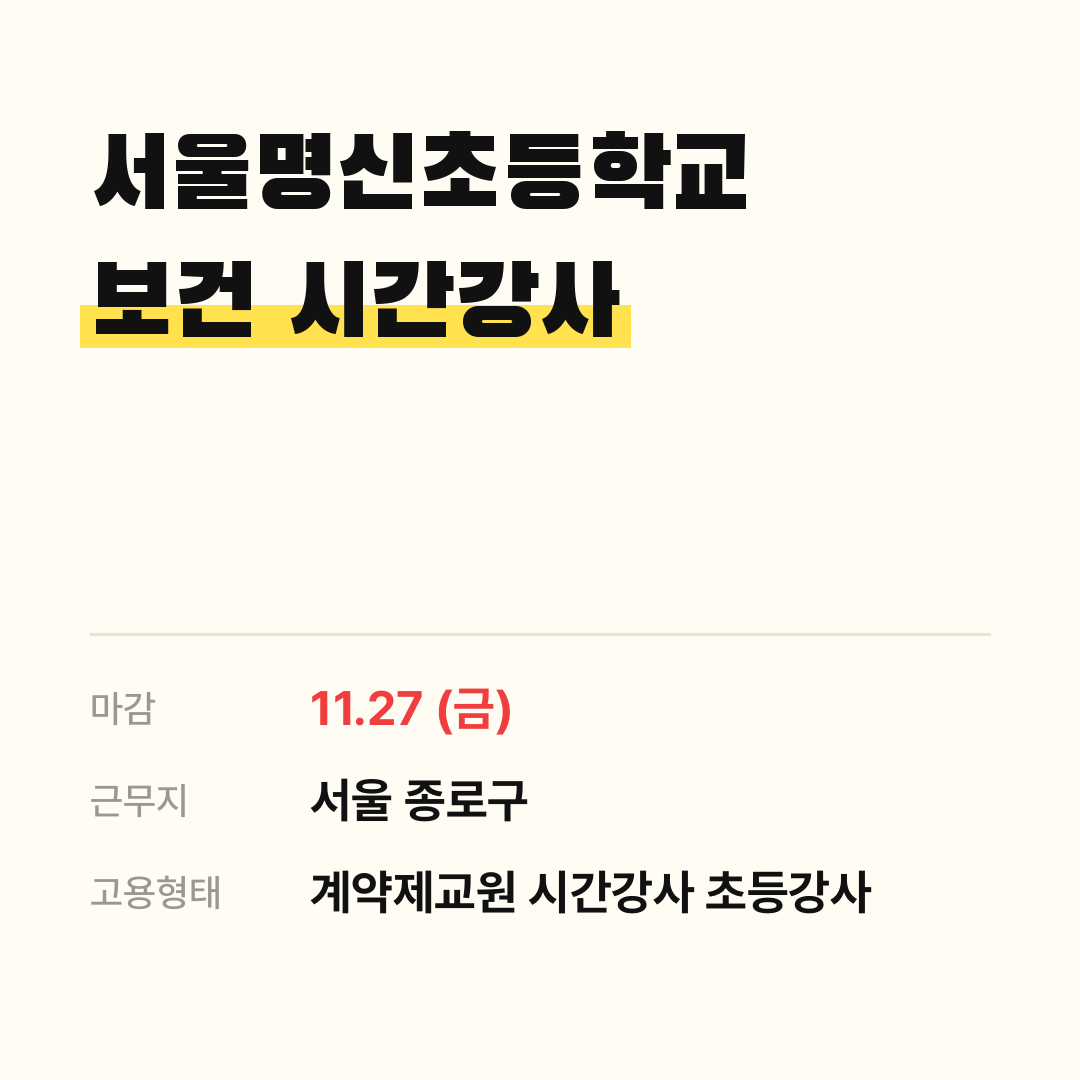
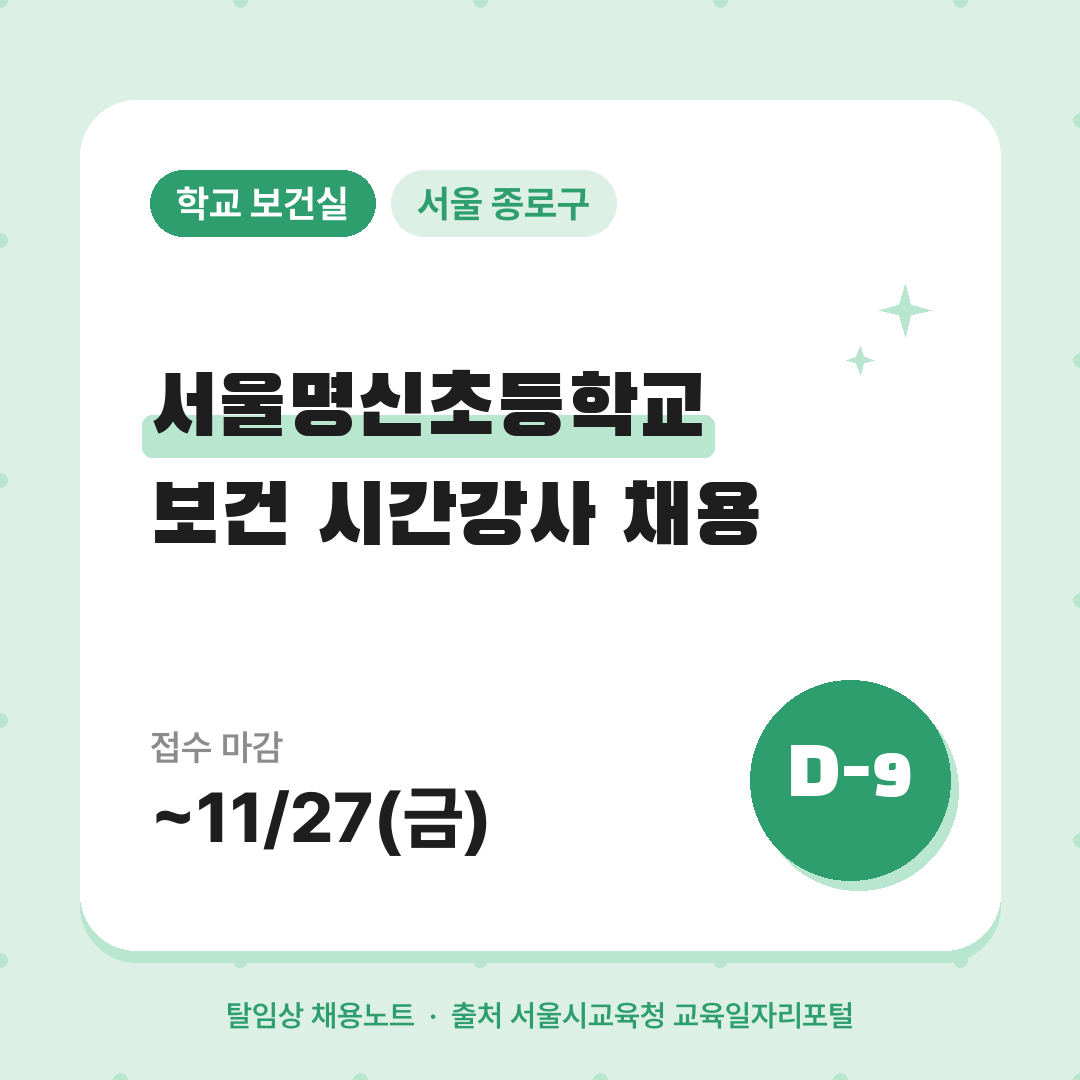
블로그 썸네일을 인스타 표지 디자인으로 통일, 11/17·11/18 인스타 게시물 생성, 하루 3~5개
Claude-Session: https://claude.ai/code/session_015ozFBvjxcWAyqLYfTbBGCZ

diff --git a/docs/2026-11-17/index.html b/docs/2026-11-17/index.html
@@ -193,82 +193,129 @@ a{color:var(--accent)}ul.days{padding-left:1.2em}
 <div class="row" style="margin-top:10px;align-items:flex-start"><a href="thumb-05.png" download><img src="thumb-05.png" alt="썸네일 5" style="width:160px;border-radius:8px;border:1px solid var(--line)"></a>
 <span class="muted">썸네일: 이미지를 눌러 저장 후 글 맨 위에 넣으세요</span></div></div>
 
-<div class="box"><div class="row"><b>📷 인스타 카드뉴스</b><span class="muted">이미지를 눌러 저장</span></div>
-<div class="cards"><a href="card-00.jpg" download><img src="card-00.jpg" alt="카드 0"></a><a href="card-01.jpg" download><img src="card-01.jpg" alt="카드 1"></a><a href="card-02.jpg" download><img src="card-02.jpg" alt="카드 2"></a><a href="card-03.jpg" download><img src="card-03.jpg" alt="카드 3"></a><a href="card-04.jpg" download><img src="card-04.jpg" alt="카드 4"></a><a href="card-05.jpg" download><img src="card-05.jpg" alt="카드 5"></a><a href="card-06.jpg" download><img src="card-06.jpg" alt="카드 6"></a></div></div>
+<h2>📋 진행 중 공고 전체 정리 (1개)</h2>
+<div class="box"><div class="row"><b>전체 정리 글</b><span class="muted">카테고리: 주간 채용 총정리</span></div>
+<div class="row" style="margin-top:8px"><pre id="st" style="flex:1;margin:0">[11/17] 탈임상 간호사 채용공고 총정리 (진행 중 24건)</pre>
+<button onclick="copyText('st',this)">제목 복사</button></div>
+<details><summary class="muted" style="margin:10px 0;cursor:pointer">본문 미리보기</summary>
+<div id="sb" class="post"><p>11월 17일 기준, 지금 지원할 수 있는 <b>탈임상 간호사 채용공고 24건</b>을 한 번에 정리했어요. 이 중 <b>9건은 3일 안에 마감</b>되니 먼저 확인하세요.</p><p>&nbsp;</p>
+<h2>🏛 공공기관·공기업 (18건)</h2>
+<table border="1" cellpadding="8" style="border-collapse:collapse;width:100%">
+<tr style="background:#f5f5f5"><td><b>마감</b></td><td><b>기관 · 직무</b></td><td><b>근무지</b></td></tr>
+<tr><td>11/17 (D-DAY)</td><td><a href="www.redcross.or.kr/redrecruit">대한적십자사</a><br>복지시설 간호사</td><td>인천</td></tr>
+<tr><td>11/18 (D-1)</td><td><a href="https://nmc.recruiter.co.kr/app/jobnotice/view?systemKindCode=MRS2&amp;jobnoticeSn=271358">국립중앙의료원</a><br>치매사례관리 행정</td><td>서울</td></tr>
+<tr><td>11/18 (D-1)</td><td><a href="https://www.redcross.or.kr/redrecruit">대한적십자사</a><br>혈액원 간호사</td><td>강원</td></tr>
+<tr><td>11/20 (D-3)</td><td><a href="https://nmc.recruiter.co.kr/app/jobnotice/view?systemKindCode=MRS2&amp;jobnoticeSn=271567">국립중앙의료원</a><br>응급의료 질향상·재난의료</td><td>서울</td></tr>
+<tr><td>11/20 (D-3)</td><td><a href="https://www.redcross.or.kr/redrecruit">대한적십자사</a><br>재난심리 사무직</td><td>충남</td></tr>
+<tr><td>11/23 (D-6)</td><td><a href="https://www.redcross.or.kr/redrecruit">대한적십자사</a><br>혈액원 간호사</td><td>인천</td></tr>
+<tr><td>11/24 (D-7)</td><td><a href="https://job.alio.go.kr/recruitview.do?idx=306789">한국고용정보원</a><br>보건관리자</td><td>충북</td></tr>
+<tr><td>11/25 (D-8)</td><td><a href="https://cnuh.recruiter.co.kr/">전남대학교병원</a><br>외상센터코디네이터</td><td>전남광주</td></tr>
+<tr><td>11/25 (D-8)</td><td><a href="https://www.redcross.or.kr/redrecruit/">대한적십자사</a><br>혈액원 간호사 (4건)</td><td>경북</td></tr>
+<tr><td>11/25 (D-8)</td><td><a href="https://www.redcross.or.kr/redrecruit">대한적십자사</a><br>보험심사</td><td>인천</td></tr>
+<tr><td>11/26 (D-9)</td><td><a href="https://job.alio.go.kr/recruitview.do?idx=306965">한국보건의료정보원</a><br>EMR인증 행정전문요원</td><td>서울 · 충북</td></tr>
+<tr><td>11/27 (D-10)</td><td><a href="https://job.alio.go.kr/recruitview.do?idx=307013">한국전력공사</a><br>경남본부 간호사</td><td>경남</td></tr>
+<tr><td>11/28 (D-11)</td><td><a href="https://www.redcross.or.kr/redrecruit/">대한적십자사</a><br>혈액원 간호사</td><td>울산</td></tr>
+<tr><td>11/30 (D-13)</td><td><a href="https://nhimc.recruiter.co.kr/career/jobs/130667">국민건강보험공단 일산병원</a><br>일차의료개발센터 간호사</td><td>경기 고양</td></tr>
+<tr><td>12/1 (D-14)</td><td><a href="https://nhimc.recruiter.co.kr">국민건강보험공단 일산병원</a><br>일차의료거점지원센터 간호사</td><td>경기</td></tr>
+</table><p>&nbsp;</p>
+<h2>🔬 임상연구 (2건)</h2>
+<table border="1" cellpadding="8" style="border-collapse:collapse;width:100%">
+<tr style="background:#f5f5f5"><td><b>마감</b></td><td><b>기관 · 직무</b></td><td><b>근무지</b></td></tr>
+<tr><td>11/18 (D-1)</td><td><a href="https://nmc.recruiter.co.kr/app/jobnotice/view?systemKindCode=MRS2&amp;jobnoticeSn=271345">국립중앙의료원</a><br>감염병 연구원</td><td>서울</td></tr>
+<tr><td>11/18 (D-1)</td><td><a href="https://cbnuh.recruiter.co.kr/app/jobnotice/view?systemKindCode=MRS2&amp;jobnoticeSn=271173">충북대학교병원</a><br>임상시험센터 간호사</td><td>충북</td></tr>
+</table><p>&nbsp;</p>
+<h2>🏫 보건교사·학교 보건실 (4건)</h2>
+<table border="1" cellpadding="8" style="border-collapse:collapse;width:100%">
+<tr style="background:#f5f5f5"><td><b>마감</b></td><td><b>기관 · 직무</b></td><td><b>근무지</b></td></tr>
+<tr><td>11/20 (D-3)</td><td><a href="https://work.sen.go.kr/work/search/recInfo/BD_selectRecDetail.do?q_rcrtSn=98240">서울매헌초등학교</a><br>보건 시간강사</td><td>서울 서초구</td></tr>
+<tr><td>11/20 (D-3)</td><td><a href="https://www.goe.go.kr/recruit/ad/func/pb/hnfpPbancList.do?mi=10502">서연초등학교</a><br>기간제 보건교사</td><td>경기 수원시</td></tr>
+<tr><td>11/27 (D-10)</td><td><a href="https://work.sen.go.kr/work/search/recInfo/BD_selectRecDetail.do?q_rcrtSn=114471">서울명신초등학교</a><br>보건 시간강사</td><td>서울 종로구</td></tr>
+<tr><td>1/8 (D-52)</td><td><a href="https://work.sen.go.kr/work/search/recInfo/BD_selectRecDetail.do?q_rcrtSn=110792">봉은중학교</a><br>보건 대체강사</td><td>서울</td></tr>
+</table><p>&nbsp;</p>
+<p>기관명을 누르면 공고 원문으로 이동해요. 공고별 자세한 정리(급여·자격·전형)는 <b>탈임상 채용공고</b> 카테고리에서 볼 수 있어요.</p>
+<p>※ 마감일은 공고 기준이며, 조기 마감될 수 있으니 원문을 꼭 확인해주세요.</p><p>&nbsp;</p>
+<p>#탈임상 #탈임상간호사 #간호사채용 #간호사이직 #간호사채용공고 #공공기관채용 #보건교사채용 #채용공고총정리</p></div></details>
+<div class="row"><span class="muted">이 글은 매일 새로 올리거나, 기존 글을 수정해서 갱신해도 돼요</span>
+<button onclick="copyHtml('sb',this)">본문 복사</button></div>
+<div class="row" style="margin-top:10px;align-items:flex-start"><a href="thumb-summary.png" download><img src="thumb-summary.png" alt="정리 썸네일" style="width:160px;border-radius:8px;border:1px solid var(--line)"></a>
+<span class="muted">썸네일: 이미지를 눌러 저장</span></div></div>
 
-<div class="box"><div class="row"><b>📷 인스타 캡션</b><button onclick="copyText('cap',this)">캡션 복사</button></div>
-<pre id="cap">📌 11/17 오늘의 탈임상 간호사 공고 5건
+<h2>📷 인스타 게시물 (공고 1개 = 1장)</h2>
+<div class="box"><div style="display:flex;flex-wrap:wrap"><a href="ig-01-1.jpg" download><img src="ig-01-1.jpg" alt="인스타 1-1" style="width:150px;border-radius:8px;border:1px solid var(--line);margin:0 6px 6px 0"></a><a href="ig-01-2.jpg" download><img src="ig-01-2.jpg" alt="인스타 1-2" style="width:150px;border-radius:8px;border:1px solid var(--line);margin:0 6px 6px 0"></a><a href="ig-01-3.jpg" download><img src="ig-01-3.jpg" alt="인스타 1-3" style="width:150px;border-radius:8px;border:1px solid var(--line);margin:0 6px 6px 0"></a><a href="ig-01-4.jpg" download><img src="ig-01-4.jpg" alt="인스타 1-4" style="width:150px;border-radius:8px;border:1px solid var(--line);margin:0 6px 6px 0"></a></div>
+<div><b>인스타 1. 한국고용정보원</b> <span class="muted">(4장 · 순서대로 올리세요)</span>
+<pre id="ic1" style="margin:8px 0">📌 한국고용정보원 보건관리자 대체인력 계약직 채용
 
-🏛 한국고용정보원 | 보건관리자 (D-7)
-🏛 (재)한국보건의료정보원 | EMR인증 행정전문요원 (D-9)
-🏛 한국전력공사 | 간호사 (D-10)
-🏛 국민건강보험공단 일산병원 | 간호사 (D-14)
-🏫 봉은중학교 | 보건 대체강사 (D-52)
+📍 근무지: 충북
+⏰ 마감: 11/24까지 (D-7)
+✅ 자격: 간호사 면허 (보건관리자 자격) / 신입 지원 가능 / 충북 근무
 
-🔗 전체 공고와 원문 링크는 프로필 링크(블로그)에서 확인하세요!
-💾 저장해두고 지원 마감 놓치지 마세요
+💡 경력 없이 보건관리자로 첫발을 떼고 싶은 신규 간호사에게 추천합니다. 공공기관 대체인력, 충북 근무.
 
-#탈임상 #탈임상간호사 #간호사채용 #간호사이직 #간호사 #간호사취업 #보건교사 #산업간호사 #CRC #간호직공무원 #공기업채용</pre></div>
+🔗 우대 사항·전형·지원 링크는 프로필 링크(블로그)에서
+💾 저장해두고 마감 체크
 
-<details><summary class="muted" style="margin:24px 0 8px;cursor:pointer">(지금은 안 써도 돼요) 하루치 모음 글 보기</summary>
-<div class="box"><div class="row"><b>① 하루치 모음 글 제목 (선택)</b><button onclick="copyText('t',this)">제목 복사</button></div>
-<pre id="t">[11/17] 탈임상 간호사 채용 5건 (보건관리자, EMR인증 행정전문요원, 간호사 외)</pre></div>
+#탈임상 #탈임상간호사 #간호사채용 #간호사이직 #간호사취업 #한국고용정보원 #보건관리자 #산업간호사 #공공기관</pre>
+<button onclick="copyText('ic1',this)">캡션 복사</button></div></div><div class="box"><div style="display:flex;flex-wrap:wrap"><a href="ig-02-1.jpg" download><img src="ig-02-1.jpg" alt="인스타 2-1" style="width:150px;border-radius:8px;border:1px solid var(--line);margin:0 6px 6px 0"></a><a href="ig-02-2.jpg" download><img src="ig-02-2.jpg" alt="인스타 2-2" style="width:150px;border-radius:8px;border:1px solid var(--line);margin:0 6px 6px 0"></a><a href="ig-02-3.jpg" download><img src="ig-02-3.jpg" alt="인스타 2-3" style="width:150px;border-radius:8px;border:1px solid var(--line);margin:0 6px 6px 0"></a><a href="ig-02-4.jpg" download><img src="ig-02-4.jpg" alt="인스타 2-4" style="width:150px;border-radius:8px;border:1px solid var(--line);margin:0 6px 6px 0"></a></div>
+<div><b>인스타 2. (재)한국보건의료정보원</b> <span class="muted">(4장 · 순서대로 올리세요)</span>
+<pre id="ic2" style="margin:8px 0">📌 한국보건의료정보원 EMR인증 행정전문요원 계약직 채용 (간호사 지원 가능)
 
-<div class="box"><div class="row"><b>② 하루치 모음 글 본문 (선택)</b><button onclick="copyHtml('post',this)">본문 복사</button></div>
-<p class="muted">복사 후 네이버 블로그 글쓰기 화면에 붙여넣기(Ctrl+V)만 하면 돼요.</p>
-<div id="post"><p>안녕하세요! 11월 17일 새로 올라온 <b>탈임상 간호사 채용공고 5건</b>을 정리했어요.</p>
-<p>병원 밖에서 일하고 싶은 간호사분들께 도움이 되길 바랍니다 :)</p><p>&nbsp;</p>
-<h2>🏛 공공 (4건)</h2>
-<h3>한국고용정보원 · 2026년도 한국고용정보원 2차 계약직(대체인력) 채용 공고</h3><ul>
-<li><b>직무</b>: 보건관리자</li>
-<li><b>마감</b>: D-7 · 11/24 마감</li>
-<li><b>지역</b>: 충북</li>
-<li><b>고용형태</b>: 비정규직</li>
-</ul>
-<p>한국고용정보원이 대체인력 계약직을 뽑는데, 그중 보건관리 분야는 간호사 면허만 있으면 지원할 수 있어요. 공공기관에서 산업간호사(보건관리자) 업무를 경험할 수 있는 자리예요.</p>
-<p><b>자격요건</b><br>· 간호사 면허 (보건관리자 자격)<br>· 신입 지원 가능<br>· 충북 근무</p>
-<p>👉 <a href="https://keis.or.kr/keis/ko/bbs/236/list.do">공고 원문 보기</a></p><p>&nbsp;</p>
-<h3>(재)한국보건의료정보원 · 2026년 제6차 직원채용 공고</h3><ul>
-<li><b>직무</b>: EMR인증 행정전문요원</li>
-<li><b>마감</b>: D-9 · 11/26 마감</li>
-<li><b>지역</b>: 서울,충북</li>
-<li><b>고용형태</b>: 비정규직</li>
-</ul>
-<p>보건복지부 산하 한국보건의료정보원이 행정·전산·연구 분야 기간제 35명을 뽑아요. 간호사는 EMR인증·지정심사·보건의료데이터 업무 등 행정전문요원 다등급에 지원할 수 있고, 간호사 면허 가산점 2점이 있어요.</p>
-<p><b>자격요건</b><br>· 학사 이상 (행정 다등급)<br>· 간호사 면허 서류 가산 2점<br>· 서울·충북 근무</p>
-<p>👉 <a href="https://khis.ai-recruit.kr">공고 원문 보기</a></p><p>&nbsp;</p>
-<h3>한국전력공사 · 기간제근로자(대체인력) 채용 공고 [경남본부]</h3><ul>
-<li><b>직무</b>: 간호사</li>
-<li><b>마감</b>: D-10 · 11/27 마감</li>
-<li><b>지역</b>: 경남</li>
-<li><b>고용형태</b>: 비정규직</li>
-</ul>
-<p>한국전력공사 경남본부가 기간제 대체인력 간호사를 뽑아요. 학력·연령 제한이 없고, 서류는 자기소개서 100점으로만 평가해요.</p>
-<p><b>자격요건</b><br>· 간호사 면허 (조무사 불가)<br>· 학력·연령 제한 없음<br>· 12/7부터 근무 가능</p>
-<p>👉 <a href="http://recruit.kepco.co.kr/sangsi">공고 원문 보기</a></p><p>&nbsp;</p>
-<h3>국민건강보험공단 일산병원 · 2026년 11월 기간제근로자 모집공고(간호직, 보건직, 사무직, 기능직)</h3><ul>
-<li><b>직무</b>: 간호사</li>
-<li><b>마감</b>: D-14 · 12/1 마감</li>
-<li><b>지역</b>: 경기</li>
-<li><b>고용형태</b>: 비정규직</li>
-</ul>
-<p>국민건강보험공단 일산병원 기간제 모집 중 일차의료거점지원센터 상근직 1명 자리예요. 간호사 또는 보건직(물리치료사·작업치료사·사회복지사1급·영양사) 중에서 뽑고, 운전이 가능해야 해요.</p>
-<p><b>자격요건</b><br>· 간호사 면허 + 관련 경력 2년 이상<br>· 종합병원급 이상 경력 1년 이상<br>· 자동차운전면허(운전 가능)</p>
-<p>👉 <a href="https://nhimc.recruiter.co.kr">공고 원문 보기</a></p><p>&nbsp;</p>
-<h2>🏫 학교 (1건)</h2>
-<h3>봉은중학교 · (봉은중)2026학년도 2학기 보건 대체(시간)강사 채용 공고</h3><ul>
-<li><b>직무</b>: 보건 대체강사</li>
-<li><b>마감</b>: D-52 · 1/8 마감</li>
-<li><b>지역</b>: 서울</li>
-<li><b>고용형태</b>: 계약제교원(시간강사)</li>
-</ul>
-<p>강남구 봉은중학교가 2학기 보건 대체(시간)강사를 뽑아요. 주 4시간(화·목 14:30~16:20) 근무라 다른 일과 병행하기 좋아요.</p>
-<p><b>자격요건</b><br>· 보건교사 자격증 소지자<br>· 주 4시간 (화·목 오후)<br>· 이메일 접수</p>
-<p>👉 <a href="https://work.sen.go.kr/work/search/recInfo/BD_selectRecDetail.do?q_rcrtSn=110792">공고 원문 보기</a></p><p>&nbsp;</p>
-<p>※ 공고 내용은 요약본이며, 지원 전 반드시 원문을 확인해주세요.</p>
-<p>#EMR인증 #한국보건의료정보원 #탈임상간호사 #보건관리자 #봉은중학교 #간호사이직 #일산병원 #산업간호사 #한전 #공공기관 #강남 #시간강사 #건보공단 #간호사채용 #한국고용정보원 #탈임상 #일차의료 #대체인력 #공기업 #한국전력공사 #기간제 #보건교사</p></div></div>
+📍 근무지: 서울,충북
+⏰ 마감: 11/26까지 (D-9)
+✅ 자격: 학사 이상 (행정 다등급) / 간호사 면허 서류 가산 2점 / 서울·충북 근무
 
-</details>
+💡 EMR·진료정보교류 등 병원 시스템 경험을 행정·데이터 커리어로 옮기려는 사람에게 적합. 간호사 면허 서류 가산.
+
+🔗 우대 사항·전형·지원 링크는 프로필 링크(블로그)에서
+💾 저장해두고 마감 체크
+
+#탈임상 #탈임상간호사 #간호사채용 #간호사이직 #간호사취업 #한국보건의료정보원 #EMR인증 #공공기관 #기간제</pre>
+<button onclick="copyText('ic2',this)">캡션 복사</button></div></div><div class="box"><div style="display:flex;flex-wrap:wrap"><a href="ig-03-1.jpg" download><img src="ig-03-1.jpg" alt="인스타 3-1" style="width:150px;border-radius:8px;border:1px solid var(--line);margin:0 6px 6px 0"></a><a href="ig-03-2.jpg" download><img src="ig-03-2.jpg" alt="인스타 3-2" style="width:150px;border-radius:8px;border:1px solid var(--line);margin:0 6px 6px 0"></a><a href="ig-03-3.jpg" download><img src="ig-03-3.jpg" alt="인스타 3-3" style="width:150px;border-radius:8px;border:1px solid var(--line);margin:0 6px 6px 0"></a><a href="ig-03-4.jpg" download><img src="ig-03-4.jpg" alt="인스타 3-4" style="width:150px;border-radius:8px;border:1px solid var(--line);margin:0 6px 6px 0"></a></div>
+<div><b>인스타 3. 한국전력공사</b> <span class="muted">(4장 · 순서대로 올리세요)</span>
+<pre id="ic3" style="margin:8px 0">📌 한국전력공사 경남본부 간호사 대체인력 기간제 채용
+
+📍 근무지: 경남
+⏰ 마감: 11/27까지 (D-10)
+✅ 자격: 간호사 면허 (조무사 불가) / 학력·연령 제한 없음 / 12/7부터 근무 가능
+
+💡 대형 공기업 간호사 경험을 쌓고 싶은 사람에게 추천합니다. 학력·연령 제한 없음, 서류는 자기소개서 평가.
+
+🔗 우대 사항·전형·지원 링크는 프로필 링크(블로그)에서
+💾 저장해두고 마감 체크
+
+#탈임상 #탈임상간호사 #간호사채용 #간호사이직 #간호사취업 #한국전력공사 #한전 #공기업 #대체인력</pre>
+<button onclick="copyText('ic3',this)">캡션 복사</button></div></div><div class="box"><div style="display:flex;flex-wrap:wrap"><a href="ig-04-1.jpg" download><img src="ig-04-1.jpg" alt="인스타 4-1" style="width:150px;border-radius:8px;border:1px solid var(--line);margin:0 6px 6px 0"></a><a href="ig-04-2.jpg" download><img src="ig-04-2.jpg" alt="인스타 4-2" style="width:150px;border-radius:8px;border:1px solid var(--line);margin:0 6px 6px 0"></a><a href="ig-04-3.jpg" download><img src="ig-04-3.jpg" alt="인스타 4-3" style="width:150px;border-radius:8px;border:1px solid var(--line);margin:0 6px 6px 0"></a><a href="ig-04-4.jpg" download><img src="ig-04-4.jpg" alt="인스타 4-4" style="width:150px;border-radius:8px;border:1px solid var(--line);margin:0 6px 6px 0"></a></div>
+<div><b>인스타 4. 국민건강보험공단 일산병원</b> <span class="muted">(4장 · 순서대로 올리세요)</span>
+<pre id="ic4" style="margin:8px 0">📌 국민건강보험공단 일산병원 일차의료거점지원센터 간호사 기간제 채용
+
+📍 근무지: 경기
+⏰ 마감: 12/1까지 (D-14)
+🕘 근무: 상근
+✅ 자격: 간호사 면허 + 관련 경력 2년 이상 / 종합병원급 이상 경력 1년 이상 / 자동차운전면허(운전 가능)
+
+💡 병동이 아닌 일차의료거점지원센터에서 지역 의료기관 지원 업무를 해보고 싶은 경력 2년 이상 간호사에게 추천합니다. 운전면허 필수.
+
+🔗 우대 사항·전형·지원 링크는 프로필 링크(블로그)에서
+💾 저장해두고 마감 체크
+
+#탈임상 #탈임상간호사 #간호사채용 #간호사이직 #간호사취업 #일산병원 #일차의료 #기간제 #건보공단</pre>
+<button onclick="copyText('ic4',this)">캡션 복사</button></div></div><div class="box"><div style="display:flex;flex-wrap:wrap"><a href="ig-05-1.jpg" download><img src="ig-05-1.jpg" alt="인스타 5-1" style="width:150px;border-radius:8px;border:1px solid var(--line);margin:0 6px 6px 0"></a><a href="ig-05-2.jpg" download><img src="ig-05-2.jpg" alt="인스타 5-2" style="width:150px;border-radius:8px;border:1px solid var(--line);margin:0 6px 6px 0"></a><a href="ig-05-3.jpg" download><img src="ig-05-3.jpg" alt="인스타 5-3" style="width:150px;border-radius:8px;border:1px solid var(--line);margin:0 6px 6px 0"></a><a href="ig-05-4.jpg" download><img src="ig-05-4.jpg" alt="인스타 5-4" style="width:150px;border-radius:8px;border:1px solid var(--line);margin:0 6px 6px 0"></a></div>
+<div><b>인스타 5. 봉은중학교</b> <span class="muted">(4장 · 순서대로 올리세요)</span>
+<pre id="ic5" style="margin:8px 0">📌 봉은중학교 보건 대체강사 채용
+
+📍 근무지: 서울
+⏰ 마감: 1/8까지 (D-52)
+💰 급여: 시급 (서울시교육청 공립학교 계약제교원 운영지침)
+🕘 근무: 주 4시간 (화·목 14:30~16:20)
+✅ 자격: 보건교사 자격증 소지자 / 주 4시간 (화·목 오후) / 이메일 접수
+
+💡 보건교사 자격은 있지만 학교 경력이 없는 사람에게 적합. 주 2회 오후 근무로 병행 가능.
+
+🔗 우대 사항·전형·지원 링크는 프로필 링크(블로그)에서
+💾 저장해두고 마감 체크
+
+#탈임상 #탈임상간호사 #간호사채용 #간호사이직 #간호사취업 #보건교사 #봉은중학교 #시간강사 #강남</pre>
+<button onclick="copyText('ic5',this)">캡션 복사</button></div></div>
+
 </main><script>
 async function copyHtml(id, btn){
   const el=document.getElementById(id);

diff --git a/docs/2026-11-18/index.html b/docs/2026-11-18/index.html
@@ -141,19 +141,19 @@ a{color:var(--accent)}ul.days{padding-left:1.2em}
 <tr><td>11/30 (D-12)</td><td><a href="https://nhimc.recruiter.co.kr/career/jobs/130667">국민건강보험공단 일산병원</a><br>일차의료개발센터 간호사</td><td>경기 고양</td></tr>
 <tr><td>12/1 (D-13)</td><td><a href="https://nhimc.recruiter.co.kr">국민건강보험공단 일산병원</a><br>일차의료거점지원센터 간호사</td><td>경기</td></tr>
 </table><p>&nbsp;</p>
-<h2>🏫 보건교사 (4건)</h2>
+<h2>🔬 임상연구 (2건)</h2>
+<table border="1" cellpadding="8" style="border-collapse:collapse;width:100%">
+<tr style="background:#f5f5f5"><td><b>마감</b></td><td><b>기관 · 직무</b></td><td><b>근무지</b></td></tr>
+<tr><td>11/18 (D-DAY)</td><td><a href="https://nmc.recruiter.co.kr/app/jobnotice/view?systemKindCode=MRS2&amp;jobnoticeSn=271345">국립중앙의료원</a><br>감염병 연구원</td><td>서울</td></tr>
+<tr><td>11/18 (D-DAY)</td><td><a href="https://cbnuh.recruiter.co.kr/app/jobnotice/view?systemKindCode=MRS2&amp;jobnoticeSn=271173">충북대학교병원</a><br>임상시험센터 간호사</td><td>충북</td></tr>
+</table><p>&nbsp;</p>
+<h2>🏫 보건교사·학교 보건실 (4건)</h2>
 <table border="1" cellpadding="8" style="border-collapse:collapse;width:100%">
 <tr style="background:#f5f5f5"><td><b>마감</b></td><td><b>기관 · 직무</b></td><td><b>근무지</b></td></tr>
 <tr><td>11/20 (D-2)</td><td><a href="https://work.sen.go.kr/work/search/recInfo/BD_selectRecDetail.do?q_rcrtSn=98240">서울매헌초등학교</a><br>보건 시간강사</td><td>서울 서초구</td></tr>
 <tr><td>11/20 (D-2)</td><td><a href="https://www.goe.go.kr/recruit/ad/func/pb/hnfpPbancList.do?mi=10502">서연초등학교</a><br>기간제 보건교사</td><td>경기 수원시</td></tr>
 <tr><td>11/27 (D-9)</td><td><a href="https://work.sen.go.kr/work/search/recInfo/BD_selectRecDetail.do?q_rcrtSn=114471">서울명신초등학교</a><br>보건 시간강사</td><td>서울 종로구</td></tr>
 <tr><td>1/8 (D-51)</td><td><a href="https://work.sen.go.kr/work/search/recInfo/BD_selectRecDetail.do?q_rcrtSn=110792">봉은중학교</a><br>보건 대체강사</td><td>서울</td></tr>
-</table><p>&nbsp;</p>
-<h2>🔬 임상연구 (2건)</h2>
-<table border="1" cellpadding="8" style="border-collapse:collapse;width:100%">
-<tr style="background:#f5f5f5"><td><b>마감</b></td><td><b>기관 · 직무</b></td><td><b>근무지</b></td></tr>
-<tr><td>11/18 (D-DAY)</td><td><a href="https://nmc.recruiter.co.kr/app/jobnotice/view?systemKindCode=MRS2&amp;jobnoticeSn=271345">국립중앙의료원</a><br>감염병 연구원</td><td>서울</td></tr>
-<tr><td>11/18 (D-DAY)</td><td><a href="https://cbnuh.recruiter.co.kr/app/jobnotice/view?systemKindCode=MRS2&amp;jobnoticeSn=271173">충북대학교병원</a><br>임상시험센터 간호사</td><td>충북</td></tr>
 </table><p>&nbsp;</p>
 <p>기관명을 누르면 공고 원문으로 이동해요. 공고별 자세한 정리(급여·자격·전형)는 <b>탈임상 채용공고</b> 카테고리에서 볼 수 있어요.</p>
 <p>※ 마감일은 공고 기준이며, 조기 마감될 수 있으니 원문을 꼭 확인해주세요.</p><p>&nbsp;</p>
@@ -163,21 +163,54 @@ a{color:var(--accent)}ul.days{padding-left:1.2em}
 <div class="row" style="margin-top:10px;align-items:flex-start"><a href="thumb-summary.png" download><img src="thumb-summary.png" alt="정리 썸네일" style="width:160px;border-radius:8px;border:1px solid var(--line)"></a>
 <span class="muted">썸네일: 이미지를 눌러 저장</span></div></div>
 
-<div class="box"><div class="row"><b>📷 인스타 카드뉴스</b><span class="muted">이미지를 눌러 저장</span></div>
-<div class="cards"><a href="card-00.jpg" download><img src="card-00.jpg" alt="카드 0"></a><a href="card-01.jpg" download><img src="card-01.jpg" alt="카드 1"></a><a href="card-02.jpg" download><img src="card-02.jpg" alt="카드 2"></a><a href="card-03.jpg" download><img src="card-03.jpg" alt="카드 3"></a><a href="card-04.jpg" download><img src="card-04.jpg" alt="카드 4"></a><a href="card-05.jpg" download><img src="card-05.jpg" alt="카드 5"></a></div></div>
+<h2>📷 인스타 게시물 (공고 1개 = 1장)</h2>
+<div class="box"><div style="display:flex;flex-wrap:wrap"><a href="ig-01-1.jpg" download><img src="ig-01-1.jpg" alt="인스타 1-1" style="width:150px;border-radius:8px;border:1px solid var(--line);margin:0 6px 6px 0"></a><a href="ig-01-2.jpg" download><img src="ig-01-2.jpg" alt="인스타 1-2" style="width:150px;border-radius:8px;border:1px solid var(--line);margin:0 6px 6px 0"></a><a href="ig-01-3.jpg" download><img src="ig-01-3.jpg" alt="인스타 1-3" style="width:150px;border-radius:8px;border:1px solid var(--line);margin:0 6px 6px 0"></a><a href="ig-01-4.jpg" download><img src="ig-01-4.jpg" alt="인스타 1-4" style="width:150px;border-radius:8px;border:1px solid var(--line);margin:0 6px 6px 0"></a></div>
+<div><b>인스타 1. 서연초등학교</b> <span class="muted">(4장 · 순서대로 올리세요)</span>
+<pre id="ic1" style="margin:8px 0">📌 서연초등학교 기간제 보건교사 채용
 
-<div class="box"><div class="row"><b>📷 인스타 캡션</b><button onclick="copyText('cap',this)">캡션 복사</button></div>
-<pre id="cap">📌 11/18 오늘의 탈임상 간호사 공고 4건
+📍 근무지: 경기 수원시
+⏰ 마감: 11/20까지 (D-2)
+✅ 자격: 보건교사 자격 / 11.24~12.31 근무 가능
 
-🏛 국민건강보험공단 일산병원 | 간호사 (D-12)
-🏫 서울매헌초등학교 | 보건 시간강사 (D-2)
-🏫 서연초등학교 | 기간제 보건교사 (D-2)
-🏫 서울명신초등학교 | 보건 시간강사 (D-9)
+💡 다음 학기 채용 전 학교 경력을 쌓고 싶은 보건교사 자격 소지자에게 적합. 이메일·방문 접수.
 
-🔗 전체 공고와 원문 링크는 프로필 링크(블로그)에서 확인하세요!
-💾 저장해두고 지원 마감 놓치지 마세요
+🔗 우대 사항·전형·지원 링크는 프로필 링크(블로그)에서
+💾 저장해두고 마감 체크
 
-#탈임상 #탈임상간호사 #간호사채용 #간호사이직 #간호사 #간호사취업 #보건교사 #산업간호사 #CRC #간호직공무원 #공기업채용</pre></div>
+#탈임상 #탈임상간호사 #간호사채용 #간호사이직 #간호사취업 #서연초채용 #기간제보건교사 #수원보건교사 #경기교육청 #계약제교원</pre>
+<button onclick="copyText('ic1',this)">캡션 복사</button></div></div><div class="box"><div style="display:flex;flex-wrap:wrap"><a href="ig-02-1.jpg" download><img src="ig-02-1.jpg" alt="인스타 2-1" style="width:150px;border-radius:8px;border:1px solid var(--line);margin:0 6px 6px 0"></a><a href="ig-02-2.jpg" download><img src="ig-02-2.jpg" alt="인스타 2-2" style="width:150px;border-radius:8px;border:1px solid var(--line);margin:0 6px 6px 0"></a><a href="ig-02-3.jpg" download><img src="ig-02-3.jpg" alt="인스타 2-3" style="width:150px;border-radius:8px;border:1px solid var(--line);margin:0 6px 6px 0"></a><a href="ig-02-4.jpg" download><img src="ig-02-4.jpg" alt="인스타 2-4" style="width:150px;border-radius:8px;border:1px solid var(--line);margin:0 6px 6px 0"></a></div>
+<div><b>인스타 2. 서울명신초등학교</b> <span class="muted">(4장 · 순서대로 올리세요)</span>
+<pre id="ic2" style="margin:8px 0">📌 서울명신초등학교 보건 시간강사 채용
+
+📍 근무지: 서울 종로구
+⏰ 마감: 11/27까지 (D-9)
+💰 급여: 일급 16만원 (월 환산 약 320만원)
+🕘 근무: 1일 8시간
+✅ 자격: 보건교사 교원자격증 / 11.27까지 근무 가능
+
+💡 바로 근무 가능한 보건교사 자격 소지자에게 추천합니다. 11/27까지 단기, 전화 접수.
+
+🔗 우대 사항·전형·지원 링크는 프로필 링크(블로그)에서
+💾 저장해두고 마감 체크
+
+#탈임상 #탈임상간호사 #간호사채용 #간호사이직 #간호사취업 #명신초채용 #보건시간강사 #서울보건교사 #종로구 #단기근무</pre>
+<button onclick="copyText('ic2',this)">캡션 복사</button></div></div><div class="box"><div style="display:flex;flex-wrap:wrap"><a href="ig-03-1.jpg" download><img src="ig-03-1.jpg" alt="인스타 3-1" style="width:150px;border-radius:8px;border:1px solid var(--line);margin:0 6px 6px 0"></a><a href="ig-03-2.jpg" download><img src="ig-03-2.jpg" alt="인스타 3-2" style="width:150px;border-radius:8px;border:1px solid var(--line);margin:0 6px 6px 0"></a><a href="ig-03-3.jpg" download><img src="ig-03-3.jpg" alt="인스타 3-3" style="width:150px;border-radius:8px;border:1px solid var(--line);margin:0 6px 6px 0"></a><a href="ig-03-4.jpg" download><img src="ig-03-4.jpg" alt="인스타 3-4" style="width:150px;border-radius:8px;border:1px solid var(--line);margin:0 6px 6px 0"></a></div>
+<div><b>인스타 3. 국민건강보험공단 일산병원</b> <span class="muted">(4장 · 순서대로 올리세요)</span>
+<pre id="ic3" style="margin:8px 0">📌 국민건강보험공단 일산병원 일차의료개발센터 간호사 기간제 채용
+
+📍 근무지: 경기 고양
+⏰ 마감: 11/30 17:00까지 (D-12)
+💰 급여: 약 337만원 +α
+🕘 근무: 상근 08:30~17:30
+✅ 자격: 간호사 면허 / 간호경력 2년 이상(종합병원급 1년) / 운전면허 2종 보통 이상
+
+💡 교대 없는 상근직으로 공단 직영병원 경력을 쌓고 싶은 임상 2년 차 이상에게 추천합니다. 1년 기간제, 운전면허 필수.
+
+🔗 우대 사항·전형·지원 링크는 프로필 링크(블로그)에서
+💾 저장해두고 마감 체크
+
+#탈임상 #탈임상간호사 #간호사채용 #간호사이직 #간호사취업 #일산병원채용 #건보일산병원 #일차의료개발센터 #기간제간호사 #상근간호사</pre>
+<button onclick="copyText('ic3',this)">캡션 복사</button></div></div>
 
 </main><script>
 async function copyHtml(id, btn){

diff --git a/src/render.py b/src/render.py
@@ -354,7 +354,9 @@ def _sparkle(d: ImageDraw.ImageDraw, x: float, y: float, r: float, col: str) -> 
     d.polygon(pts, fill=col)
 
 
-def ig_post(job: Job, today: date) -> Image.Image:
+def ig_post(job: Job, today: date, h: int = H) -> Image.Image:
+    """h=1350 인스타 표지, h=1080 블로그 썸네일(정사각형)."""
+    sq = h < H
     from .blog import _emp, _org  # 순환 import 방지
     bg, mark, pt, lab = IG_PAL.get(job.category or "기타", IG_PAL["기타"])
     role = job.job_role or ""
@@ -367,13 +369,13 @@ def ig_post(job: Job, today: date) -> Image.Image:
     dd = ("D-DAY" if left == 0 else f"D-{left}") if dl else "상시"
     loc = (job.location or "").split(",")[0].replace("특별시", "").replace("광역시", "").strip()
 
-    img = Image.new("RGB", (W, H), bg)
+    img = Image.new("RGB", (W, h), bg)
     d = ImageDraw.Draw(img)
     for i in range(0, W + 80, 120):  # 물방울 무늬
-        for j in range(0, H + 80, 120):
+        for j in range(0, h + 80, 120):
             if (i // 120 + j // 120) % 2 == 0:
                 d.ellipse((i - 7, j - 7, i + 7, j + 7), fill=mark)
-    x0, y0, x1, y1 = 80, 150, W - 80, H - 150
+    x0, y0, x1, y1 = (80, 100, W - 80, h - 130) if sq else (80, 150, W - 80, H - 150)
     d.rounded_rectangle((x0, y0 + 12, x1, y1 + 12), 56, fill=mark)
     d.rounded_rectangle((x0, y0, x1, y1), 56, fill="white")
     # 칩: 카테고리 / 지역
@@ -388,16 +390,17 @@ def ig_post(job: Job, today: date) -> Image.Image:
         cx += tw + 52 + 16
     # 제목: 기관 / 부서 / 직무 단위 줄바꿈, 첫 줄 형광펜
     maxw = x1 - x0 - 140
-    for size in (94, 84, 74, 66):
+    nmax = 4 if sq else 5
+    for size in ((84, 74, 66, 58) if sq else (94, 84, 74, 66)):
         ft = font(size, "Title")
         lines: list[str] = []
         for sg in segs:
             lines += wrap(d, sg, ft, maxw, 3)
-        if len(lines) <= 5:
+        if len(lines) <= nmax:
             break
-    lines = lines[:5]
+    lines = lines[:nmax]
     lh = int(size * 1.3)
-    y = y0 + 200 + (5 - len(lines)) * lh // 2 - 20
+    y = y0 + (180 if sq else 200) + (nmax - len(lines)) * lh // 2 - 20
     for i, ln in enumerate(lines):
         if i == 0:
             tw = d.textlength(ln, font=ft)
@@ -407,7 +410,7 @@ def ig_post(job: Job, today: date) -> Image.Image:
     _sparkle(d, x1 - 95, y0 + 210, 26, mark)
     _sparkle(d, x1 - 140, y0 + 260, 14, mark)
     # 마감: 날짜 + D-day 스티커 (3일 이내면 '마감임박' 꼬리표)
-    scx, scy, r = x1 - 150, y1 - 170, 112
+    scx, scy, r = x1 - 150, y1 - 170, (100 if sq else 112)
     d.ellipse((scx - r + 8, scy - r + 10, scx + r + 8, scy + r + 10), fill=mark)
     d.ellipse((scx - r, scy - r, scx + r, scy + r), fill=pt)
     d.text((scx, scy - 4), dd, font=font(68 if len(dd) <= 4 else 56, "Title"), fill="white", anchor="mm")
@@ -420,7 +423,7 @@ def ig_post(job: Job, today: date) -> Image.Image:
     d.text((x0 + 70, y1 - 225), label, font=font(36, "SemiBold"), fill="#8C8C8C")
     d.text((x0 + 70, y1 - 175), when, font=font(70, "ExtraBold"), fill="#1E1E1E")
     src = IG_SOURCE.get(job.source, "")
-    d.text((W / 2, H - 85), BRAND + (f"  ·  출처 {src}" if src else ""), font=font(30, "SemiBold"), fill=pt, anchor="mm")
+    d.text((W / 2, h - 65 if sq else H - 85), BRAND + (f"  ·  출처 {src}" if src else ""), font=font(30, "SemiBold"), fill=pt, anchor="mm")
     return img
 
 

diff --git a/src/site.py b/src/site.py
@@ -14,7 +14,7 @@ from pathlib import Path
 from .models import CATEGORIES, Job
 from .render import d_day
 from .blog import BLOG_CATEGORY, SUMMARY_CATEGORY, _emp, _org, blog_tags, picks, post_html, post_title, summary_html, summary_title
-from .render import summary_thumb, thumb
+from .render import ig_post, summary_thumb, thumb
 
 STYLE = """
 :root{--bg:#f8fafc;--card:#fff;--ink:#0f172a;--muted:#64748b;--line:#e2e8f0;--accent:#2563eb}
@@ -134,7 +134,7 @@ def build_day(jobs: list[Job], today: date, docs: Path, card_paths: list[list[Pa
         role = " ".join(x for x in (j.department, j.job_role) if x)
         loc = (j.location or "").replace(",", " · ")
         emp_txt = _emp(j) + (" (상근)" if (j.work_hours or "").startswith("상근") else "")
-        thumb(_org(j), role, j.deadline, j.deadline_time, loc, emp_txt).save(day_dir / f"thumb-{n:02d}.png")
+        ig_post(j, today, h=1080).save(day_dir / f"thumb-{n:02d}.png")  # 인스타 표지와 같은 디자인
         tags = " ".join("#" + t for t in blog_tags(j))
         posts.append(f"""<div class="box"><div class="row"><b>글 {n}. {_e(j.org)} · {_e(j.job_role)}</b>
 <span class="muted">카테고리: {_e(BLOG_CATEGORY.get(j.category or '', '탈임상 채용공고'))}</span></div>

diff --git a/CLAUDE.md b/CLAUDE.md
@@ -50,9 +50,9 @@ GitHub Actions가 매일 05:17(KST, 종종 늦어짐)에 공고를 수집해 `da
    - **3교대·2교대 등 교대근무 자리는 환자를 직접 보지 않아도 제외** (예: 응급의료상황실 3교대) — `is_target: false`.
    - **원문(`raw_text`, `title`, `extra`)에 없는 정보는 절대 지어내지 말 것** (연봉, 마감일, 경력 등)
    - 공고가 많으면 Python 스크립트로 JSON을 읽고 쓰되, 판단 자체는 네가 직접 한다.
-3-1. **글이 3개 미만이면 대기열에서 채우기**: `python -m src.main backlog YYYY-MM-DD` 로 아직 안 올린 마감 전 공고를 보고(수도권→마감순으로 정렬됨),
+3-1. **글이 5개 미만이면 대기열에서 채우기**: `python -m src.main backlog YYYY-MM-DD` 로 아직 안 올린 마감 전 공고를 보고(수도권→마감순으로 정렬됨),
    부족한 만큼 골라 `python -m src.main backlog-add YYYY-MM-DD KEY1 KEY2` 로 오늘 inbox 에 추가한 뒤, 그 공고들의 블로그 필드(intro·급여 등)를 채운다.
-   목표는 **하루 3개**(좋은 공고가 많은 날만 최대 5개). 대기열에도 없으면 있는 만큼만.
+   목표는 **하루 최소 3개, 많으면 5개** (밀린 공고를 소진하는 동안은 5개를 채우는 쪽으로). 대기열에도 없으면 있는 만큼만.
 4. `python -m src.main check YYYY-MM-DD` → `OK` 나올 때까지 수정
 5. `pip install -q -r requirements.txt` (폰트는 저장소 fonts/ 에 포함되어 있음)
 6. `python -m src.main build YYYY-MM-DD` (inbox 파일은 `data/jobs/`로 자동 이동)
